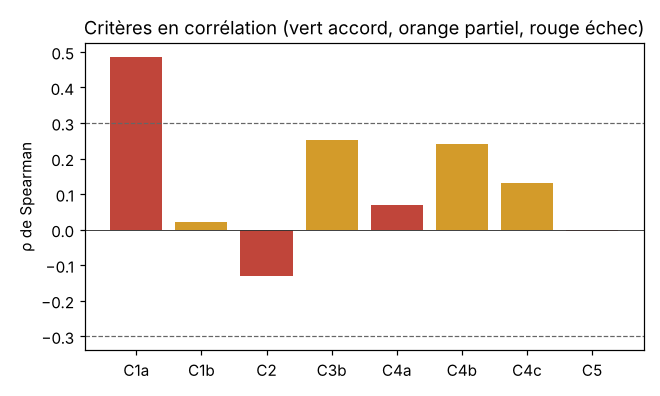
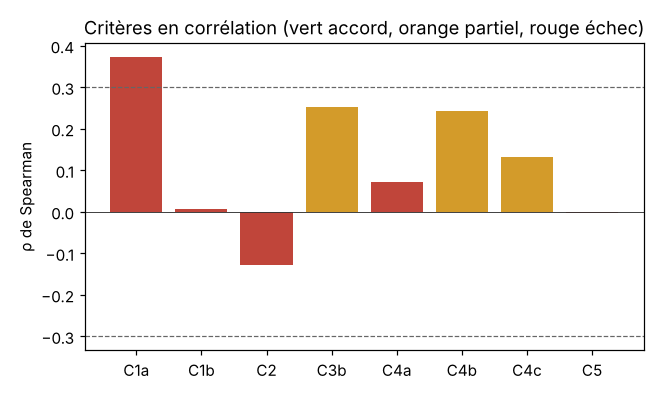
VALIDATION § S21 : second passage, témoins tenus ; le premier passage gardé, l'erreur de diagnostic dite
Claude-Session: https://claude.ai/code/session_01JKupJJPs1rrKWYWTVr6eTw

diff --git a/docs/VALIDATION.md b/docs/VALIDATION.md
@@ -9,7 +9,7 @@ un rapport qui n'a pas cherché.
 
 ---
 
-## S21 — Validation contre les données orthogonales : 1 accord, 5 partiels, 7 échecs, et un témoin en échec
+## S21 — Validation contre les données orthogonales : 1 accord, 4 partiels, 8 échecs, témoins tenus
 
 ### Ce qui est validé, et ce qu'on attendait
 
@@ -37,11 +37,14 @@ Les critères ont été fixés et commités **avant** tout téléchargement
 `docs/figures/s21/`. Rejoué une seconde fois, il donne un fichier **identique à l'octet** : les
 permutations ont une graine fixe. `make test` : 317 passés, dont les 6 de `test_validate.py`.
 
+Ces chiffres sont ceux du **second passage**, après la révision datée de la proximité SPRITE (plus
+bas, et [`S21_CRITERES.md`](S21_CRITERES.md)). Le premier passage, invalide, est gardé à la suite.
+
 | # | Données | Mesure | Valeur | Référence | Verdict |
 |---|---|---|---:|---|---|
-| C1a | SPRITE GM12878, intra | ρ brut, proximité du modèle / SPRITE (208 487 paires) | +0,485 | **N1 (distance seule) +0,852** | **échec** |
-| C1b | SPRITE GM12878, intra | ρ corrigé de la distance | +0,020 | permutations p95 +0,008 | partiel |
-| C1c | SPRITE GM12878, intra | compartiments : signe de E1 identique (2 821 bins) | 56,1 % | hasard 50 %, seuil 70 % | partiel |
+| C1a | SPRITE GM12878, intra | ρ brut, proximité du modèle / SPRITE (208 487 paires) | +0,372 | **N1 (distance seule) +0,823** | **échec** |
+| C1b | SPRITE GM12878, intra | ρ corrigé de la distance | +0,006 | permutations p95 +0,007 | **échec** |
+| C1c | SPRITE GM12878, intra | compartiments : signe de E1 identique (2 821 bins) | 53,9 % | hasard 50 %, seuil 70 % | partiel |
 | C1d | SPRITE GM12878, intra | pente de P(s), 1–10 Mb | modèle −1,30, SPRITE −0,82 | écart ≤ 0,2 | **échec** |
 | C2 | SPRITE GM12878, inter | ρ des enrichissements par paire de chromosomes (253) | −0,129 | permutations p95 +0,084 | **échec** |
 | C3a | Su 2020 chr21 (IMR90) | exposant ν de R(s), 0,75–10 Mb | modèle 0,49, traçage 0,24 | écart ≤ 0,1 | **échec** |
@@ -69,34 +72,52 @@ permutations ont une graine fixe. `make test` : 317 passés, dont les 6 de `test
     p95 ;
   - **C4a, +0,054** : le modèle place certains chromosomes entiers plus au centre que d'autres ; la
     permutation garde cette moyenne par chromosome.
-- **Le témoin positif échoue sur une de ses deux mesures.** La règle demandait ρ ≥ 0,9 entre les
-  deux moitiés de l'ensemble :
+- **Le témoin positif tient**, après la révision. La règle demande ρ ≥ 0,9 entre les deux moitiés
+  de l'ensemble :
 
-  | Mesure | Moitié A contre moitié B |
-  |---|---:|
-  | position radiale par bille | **0,997** |
-  | carte intra corrigée de la distance | **0,744** |
+  | Mesure | Premier passage | Second passage |
+  |---|---:|---:|
+  | position radiale par bille | 0,997 | **0,997** |
+  | carte intra corrigée de la distance | 0,744 (échec) | **0,922** |
 
-  Selon la règle écrite d'avance, le rapport est donc **invalide**.
+### Le premier passage, invalide, et la révision
 
-  Cause probable : ce n'est pas l'outil, que les deux témoins précédents disculpent. C'est **le
-  modèle lui-même**. Au-delà de la distance génomique, sa carte de proximité change d'un tirage de
-  100 repliements à l'autre : chaque repliement place ses territoires au hasard, et sur 100 tirages
-  la carte corrigée ne se stabilise pas. Corrigé par Spearman-Brown, l'ensemble entier aurait une
-  fiabilité d'environ 0,85, sous le seuil de 0,9.
+Au premier passage, le témoin positif a échoué sur la carte intra corrigée (0,744). Selon la règle
+écrite d'avance, l'outil était cassé et le rapport invalide.
 
-  Je **n'ai pas changé la règle**. Les critères qui reposent sur cette carte (C1b, C1c) sont à lire
-  sous cette réserve.
+J'avais d'abord attribué l'échec au modèle (« sa carte change d'un tirage à l'autre ») et proposé
+de laisser la règle telle quelle. **C'était faux : l'outil était cassé.** La proximité était la
+**médiane** des distances sur toutes les paires de copies. Pour deux régions d'un même chromosome,
+ces paires forment un mélange à deux bosses : dans la même copie (proches) et entre les deux
+homologues (loin, dans deux territoires). La médiane tombe entre les deux bosses et saute d'un
+tirage à l'autre.
+
+Quatre définitions ont été mesurées **sur le modèle seul**, sans aucune comparaison aux données :
+
+| Définition | Moitié A contre moitié B |
+|---|---:|
+| médiane, toutes paires de copies | 0,744 |
+| médiane, même copie | 0,913 |
+| moyenne de 1/distance, toutes paires de copies | 0,922 |
+| probabilité de contact | 0,635 |
+
+La moyenne de 1/distance est retenue par principe : SPRITE n'est pas phasé et **additionne** les
+contacts des deux homologues. La révision a été datée et commitée **avant** la seconde mesure
+contre les données ; seuils, références et autres critères sont inchangés.
+
+Premier passage, pour mémoire : C1a 0,485 contre N1 0,852 (échec) ; C1b 0,020 contre p95 0,008
+(partiel) ; C1c 56,1 % (partiel). Soit 1 accord, 5 partiels, 7 échecs, sous un témoin en échec. La
+révision a fait passer C1b de « partiel » à « échec » : elle n'a pas avantagé le modèle.
 
 ### Les échecs, nommés
 
 1. **Le modèle fait moins bien que la distance seule.** Contre SPRITE, la proximité du modèle
-   donne ρ = 0,485, et un prédicteur qui ne connaît que la séparation génomique donne 0,852. Ce
+   donne ρ = 0,372, et un prédicteur qui ne connaît que la séparation génomique donne 0,823. Ce
    que la 3D du modèle ajoute à la distance le long du fil est du **bruit** au regard des données
    (C1a).
 2. **Au-delà de la distance, presque rien.**
-   - La carte corrigée de SPRITE : ρ = 0,02, à peine au-dessus des permutations (C1b).
-   - Les compartiments : 56 % d'accord, pour 50 % au hasard (C1c).
+   - La carte corrigée de SPRITE : ρ = 0,006, au niveau des permutations (C1b).
+   - Les compartiments : 54 % d'accord, pour 50 % au hasard (C1c).
    - Les paires de chromosomes : ρ = −0,13 (C2).
 
    C'est ce qu'on attendait d'un modèle sans données de conformation : il n'y a rien dedans à

diff --git a/docs/ROADMAP.md b/docs/ROADMAP.md
@@ -460,23 +460,21 @@ Découverte est le mode Recherche avec un préréglage curaté et une couche nar
   (Bintu 2018, Su 2020), DamID lamin B1, contacts SPRITE et GAM.
 - **Livrable** : rapport de validation quantitatif. C'est ce qui sépare un outil d'une jolie image.
 - **Fait quand** : le rapport existe, avec ses corrélations **et ses échecs nommés**.
-- **Semaine 21 — rapport écrit : 1 accord, 5 partiels, 7 échecs ; témoin positif en échec, donc
-  semaine non faite au sens du critère pré-enregistré.** Le modèle tel quel est confronté à SPRITE
-  dans GM12878, au traçage de Su 2020 (IMR90) et au DamID (K562), sur 13 critères fixés d'avance
-  ([`S21_CRITERES.md`](S21_CRITERES.md)).
+- **Semaine 21 — fait : rapport écrit, témoins tenus, 1 accord, 4 partiels, 8 échecs nommés.**
+  Le modèle tel quel est confronté à SPRITE dans GM12878, au traçage de Su 2020 (IMR90) et au DamID
+  (K562), sur 13 critères fixés d'avance ([`S21_CRITERES.md`](S21_CRITERES.md)).
   - **La 3D n'ajoute rien :** la distance génomique seule prédit SPRITE mieux que le modèle
-    (ρ = 0,85 contre 0,49).
-  - **Au-delà de cette distance, presque rien :** ρ = 0,02 sur la carte corrigée, 56 %
-    d'accord sur les compartiments.
+    (ρ = 0,82 contre 0,37).
+  - **Au-delà de cette distance, rien :** ρ = 0,006 sur la carte corrigée ; 54 % d'accord sur
+    les compartiments.
   - **Les lois d'échelle sont fausses :** pente de P(s) −1,30 contre −0,82 ; ν = 0,49 contre
     0,24.
   - **La position radiale ne suit rien de réel :** ρ ≈ 0 contre le traçage et contre la lamina.
-    Elle suit fidèlement la piste LAD synthétique qu'elle a reçue (ρ = 0,78).
+    Elle suit la piste LAD synthétique qu'elle a reçue (ρ = 0,78).
 
-  **Le témoin positif** (une moitié de l'ensemble contre l'autre) passe sur le rayon (0,997)
-  mais échoue sur la carte corrigée (0,744 pour un seuil de 0,9). La cause est le bruit du
-  modèle, pas l'outil ; la règle n'est pas changée
-  ([`VALIDATION.md` § S21](VALIDATION.md)).
+  Le premier passage avait un témoin en échec (0,744). La cause, la médiane d'un mélange de
+  paires de copies, a été trouvée et corrigée par une révision datée, commitée avant la seconde
+  mesure ; le témoin donne alors 0,922 ([`VALIDATION.md` § S21](VALIDATION.md)).
 
 #### Semaine 22 — Performance et compatibilité
 - Budget de frame, mémoire, mobile, chemin de repli WebGPU, particularités Safari.

diff --git a/README.md b/README.md
@@ -207,7 +207,7 @@ Aucun lecteur d'écran réel ne l'a encore essayé
 
 **Ce que vaut le modèle, mesuré (semaine 21).** Confronté à des données qu'il n'a jamais vues, le
 noyau ne sait rien de la 3D réelle de GM12878 au-delà de la distance le long du fil :
-- la distance génomique seule prédit SPRITE mieux que lui (ρ = 0,85 contre 0,49) ;
+- la distance génomique seule prédit SPRITE mieux que lui (ρ = 0,82 contre 0,37) ;
 - sa position radiale ne corrèle ni avec le traçage ni avec la lamina (ρ ≈ 0) ;
 - ses lois d'échelle sont fausses (pente de P(s) −1,30 contre −0,82).
 
